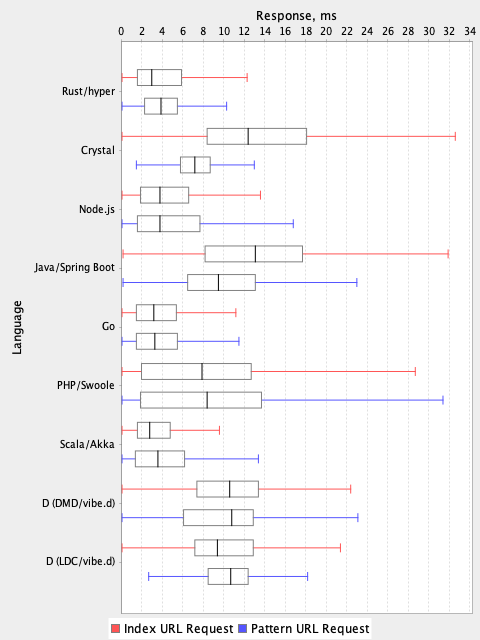
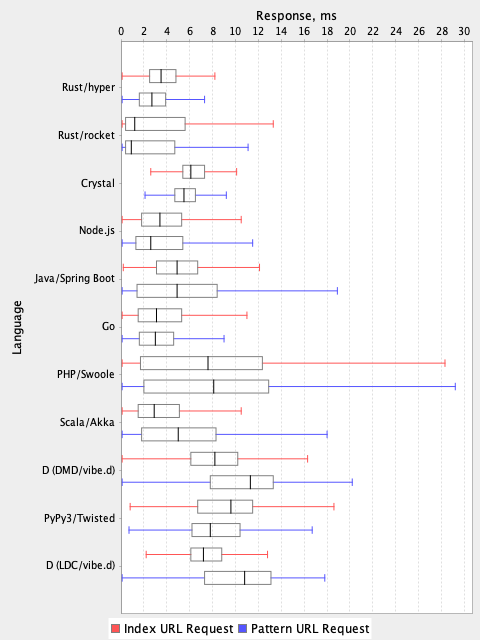
Python tests have been added for python.

diff --git a/python/twist.py b/python/twist.py
@@ -1,0 +1,41 @@
+#!/usr/bin/python3
+
+import argparse
+import os
+import re
+from twisted.web import server, resource
+from twisted.internet import reactor, endpoints
+from twisted.web.resource import NoResource
+
+parser = argparse.ArgumentParser()
+parser.add_argument('--port', help='server port', default="3000")
+args = parser.parse_args()
+hostPort = int(args.port)
+reg = re.compile("^/greeting/([a-z]+)$")
+
+class MyServer(resource.Resource):
+    isLeaf = True
+
+    def render_GET(self, request):
+        response = None
+        path = request.uri.decode("utf-8")
+        if path == '/':
+            response = "Hello World!"
+        else:
+            match = reg.match(path)
+            if match:
+                response = "Hello, %s" % match.group(1)
+        if response:
+            request.setHeader(b"Content-type", b"text/plain; charset=utf-8")
+            return bytes(response, "utf-8")
+        else:
+            return NoResource()
+
+pid = str(os.getpid())
+with open(".pid", "w") as pidFile:
+    pidFile.write(pid)
+print("Master %s is running on port %d" % (pid, hostPort))
+
+endpoints.serverFromString(reactor, "tcp:%d" % hostPort).listen(
+    server.Site(MyServer()))
+reactor.run()

diff --git a/README.md b/README.md
@@ -20,7 +20,7 @@ OS: Mac OS X 10.14.5
 
 Hardware: MacBook Pro (CPU: 2.9 GHz Intel Core i7, Mem: 16 GB 2133 MHz DDR3)
 
-Software: Go 1.12.7, Rust 1.38.0-nightly, Scala 2.12.8, Node.js 12.6.0, DMD 2.087.0, LDC 1.16.0, Crystal 0.29.0, PHP 7.3.7, Java (SE) 1.8.0.
+Software: Go 1.12.7, Rust 1.38.0-nightly, Scala 2.12.8, Node.js 12.6.0, DMD 2.087.0, LDC 1.16.0, Crystal 0.29.0, PHP 7.3.7, Java (SE) 1.8.0, Python 3.6.1 (PyPy 7.1.1-beta0).
 
 ![](suite/results/mac.png?raw=true)
 
@@ -136,7 +136,14 @@ Uses standalone web server and [Swoole](https://www.swoole.co.uk/) extension:
 
 ### Python
 
+Uses standalone web server and [Twisted](https://twistedmatrix.com/) engine:
+
     python3 python/main.py
+    pypy3 python/twist.py
+
+Please note that CPython has the performance problems running as a standalone server, so we've used PyPy3. To install Twisted please use the pip module:
+
+    pypy3 -m pip install twisted
 
 ### Java
 
